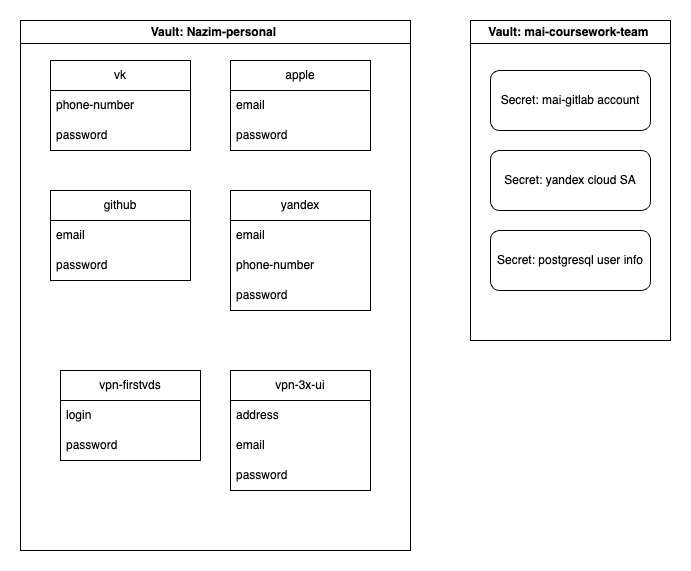
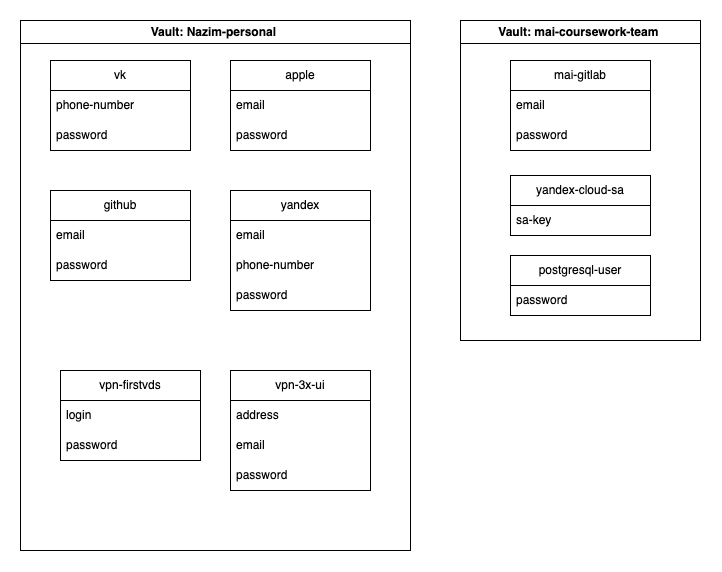
fix typos

diff --git a/docs/design/design.md b/docs/design/design.md
@@ -2,10 +2,10 @@
 
 ZeroLarec - Сервис для безопасного управления секретами. Безопасность достигается с помощью следующих факторов:
 
-- **Централизованное управление секретами.** Хранение секретов в одном защищенном сервиса, позволяет уменьшить вектор атаки со стороны злоумышленника.
+- **Централизованное управление секретами.** Хранение секретов в одном защищенном сервисе позволяет уменьшить вектор атаки со стороны злоумышленника.
 - **Совместный доступ с гранулярной настройкой.** Для контроля доступа используется ролевая модель доступа (Role Based Access Control).
 - **Полная наблюдаемость жизненного цикла.** Каждое действие пользователя записывается в событие информационной безопасности, которое хранится на сервере и по желанию пользоватя может быть отправлено в системы класса SIEM.
-- ***Сквозное шифрование.** Шифрование и дешифрование секретов происходит на стороне клиента - у сервера есть доступ только к зашифрованным данным без возможности их расшифровать. Таким образом, даже в случае компрометации сервера злоумышленник не сможет получить доступ к данным пользователя.
+- **Сквозное шифрование.** Шифрование и дешифрование секретов происходит на стороне клиента - у сервера есть доступ только к зашифрованным данным без возможности их расшифровать. Таким образом, даже в случае компрометации сервера злоумышленник не сможет получить доступ к данным пользователя.
 
 ## Ресурсная модель
 
@@ -25,8 +25,10 @@ ZeroLarec оперирует следующими ресурсами:
     - github - личный аккаунт в Yandex.
     - vpn-firstvds - информация об аккаунте в сервисе FirstVDS для хостинга личного VPN.
     - vpn-3x-ui - информация об аккаунте vpn сервисе 3x-ui.
-- mai-coursework-team - Хранилище для управления секретами в рамках выполнения курсовой работы в комнде. 
-
+- mai-coursework-team - Хранилище для управления секретами в рамках выполнения курсовой работы в команде. 
+    - mai-gitlab - информация об аккаунте команды в университетском gitlab.
+    - yandex-cloud-sa - информация о данных в Яндекс Облаке, в котором развернута инфраструктура для курсовой работы.
+    - postgresql-user - информация о данных для подключения к субд, используемой в курсовом проекте.
 ## Ролевая модель
 
 | Роль | Vault | Secret |
@@ -53,14 +55,12 @@ ZeroLarec оперирует следующими ресурсами:
 
 ## Реализация сквозного шифрования
 
-### Вход в систему
-
-Алгоритм входа в систему выглядит следующим образом:
-![Алгоритм входа в систему](../misc/e2ee.png)
+Сквозное шифрование реализовано следующим образом:
+![Реализация сквозного шифрования](../misc/e2ee.png)
 
 1.  На основе логина и мастер-пароля создается мастер-ключ. Он используется для шифрования и дешифрования данных и хранится только на стороне клиента.
 2. На основе мастер-пароля и мастер-ключа создается ключ для аутентификации. Он передается в сервис аутентификации.
 3. Генерируется пара RSA ключей. Они используются для шифрования и дешифрования ключей хранилищ. Приватный ключ шифруется с помощью мастер-ключа и передается на сервер, а открытый передается на сервер без шифрования. Таким образом чтобы пользователю A пригласить в хранилище пользователя B, он должен зашифровать ключ хранилища открытым RSA ключем пользователя B.
 4. Создается персональное хранилище пользователя. Для этого псевдослучайный генератор создает ключ хранилища, который используется для шифрования и дешифрования секретов в нем. Ключ хранилища публичным ключем пользователя и отправляется на сервер.
 
-Никакие секретные данные хранятся только на клиенте, а на сервер если и попадают, то только в зашифрованном виде. Таким образом даже сервер будет скомпрометирован, злоумышленник не сможет получить доступ к секретам пользователя. 
+Все секретные данные в открытом виде хранятся только на клиенте - на сервер попадают зашифрованными. Таким образом даже сервер будет скомпрометирован, злоумышленник не сможет получить доступ к секретам пользователя. 
